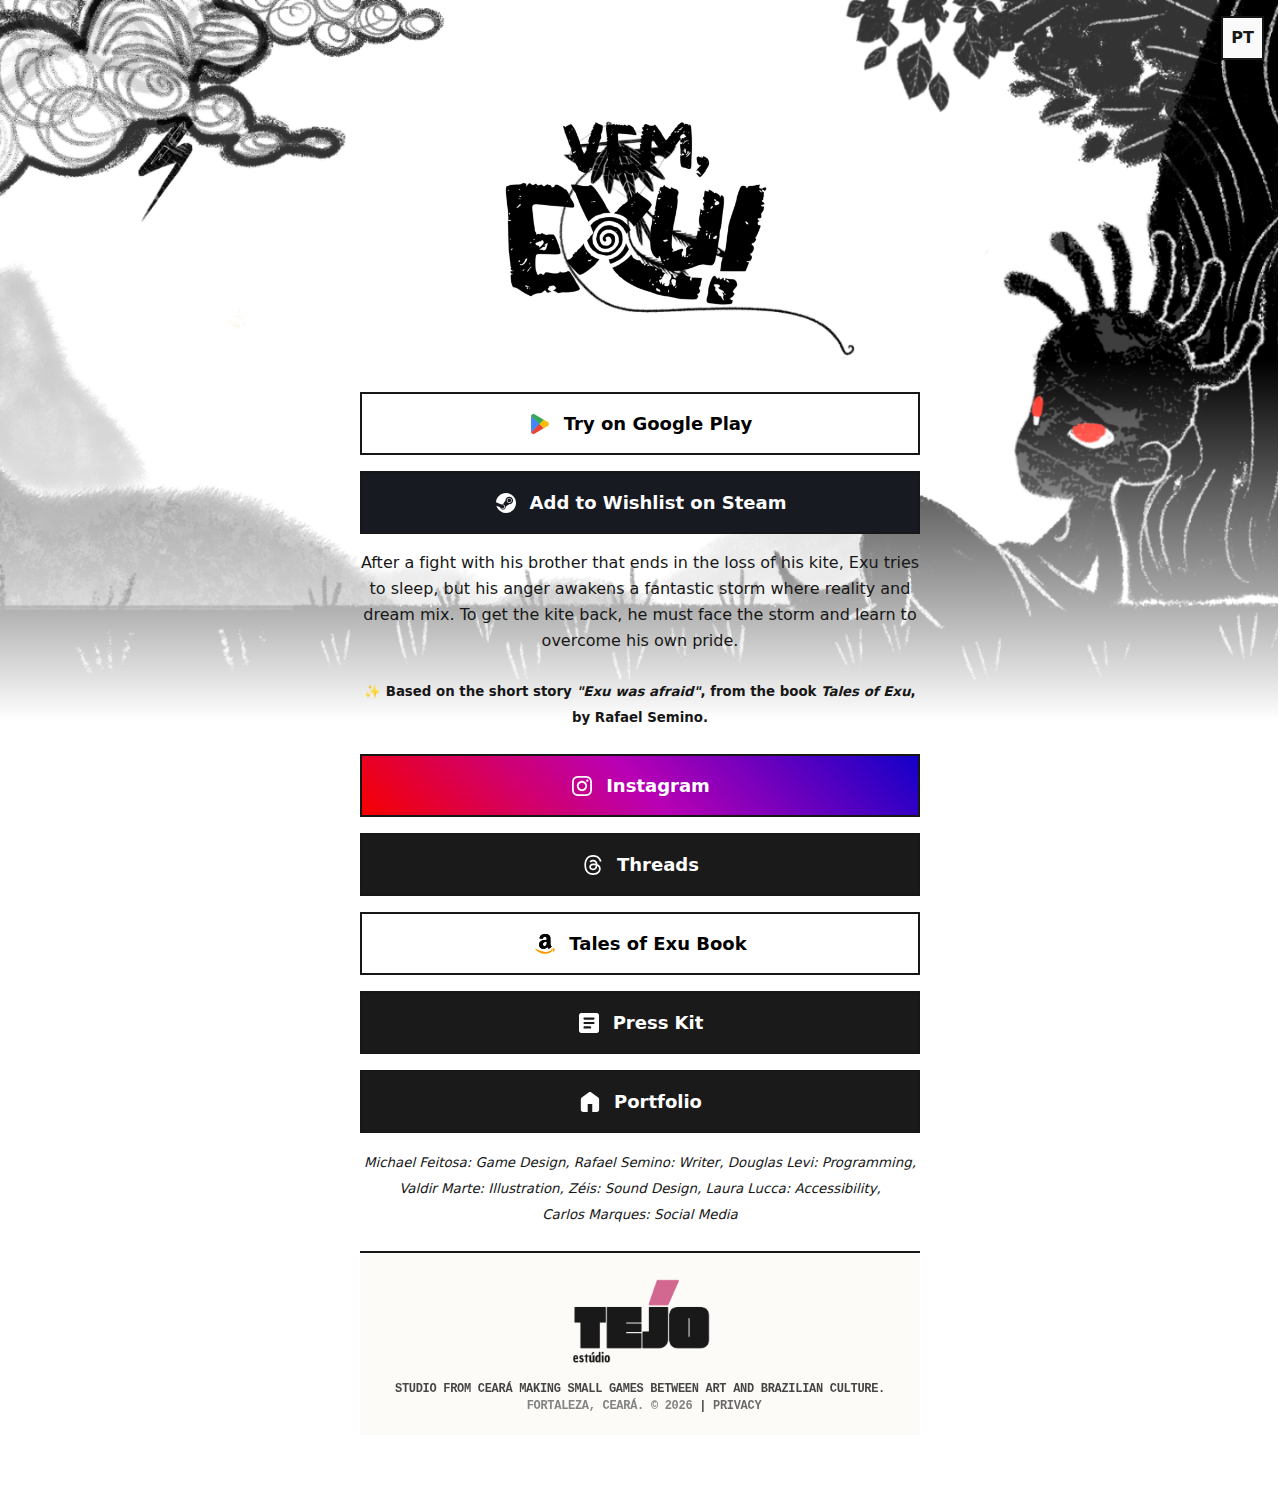
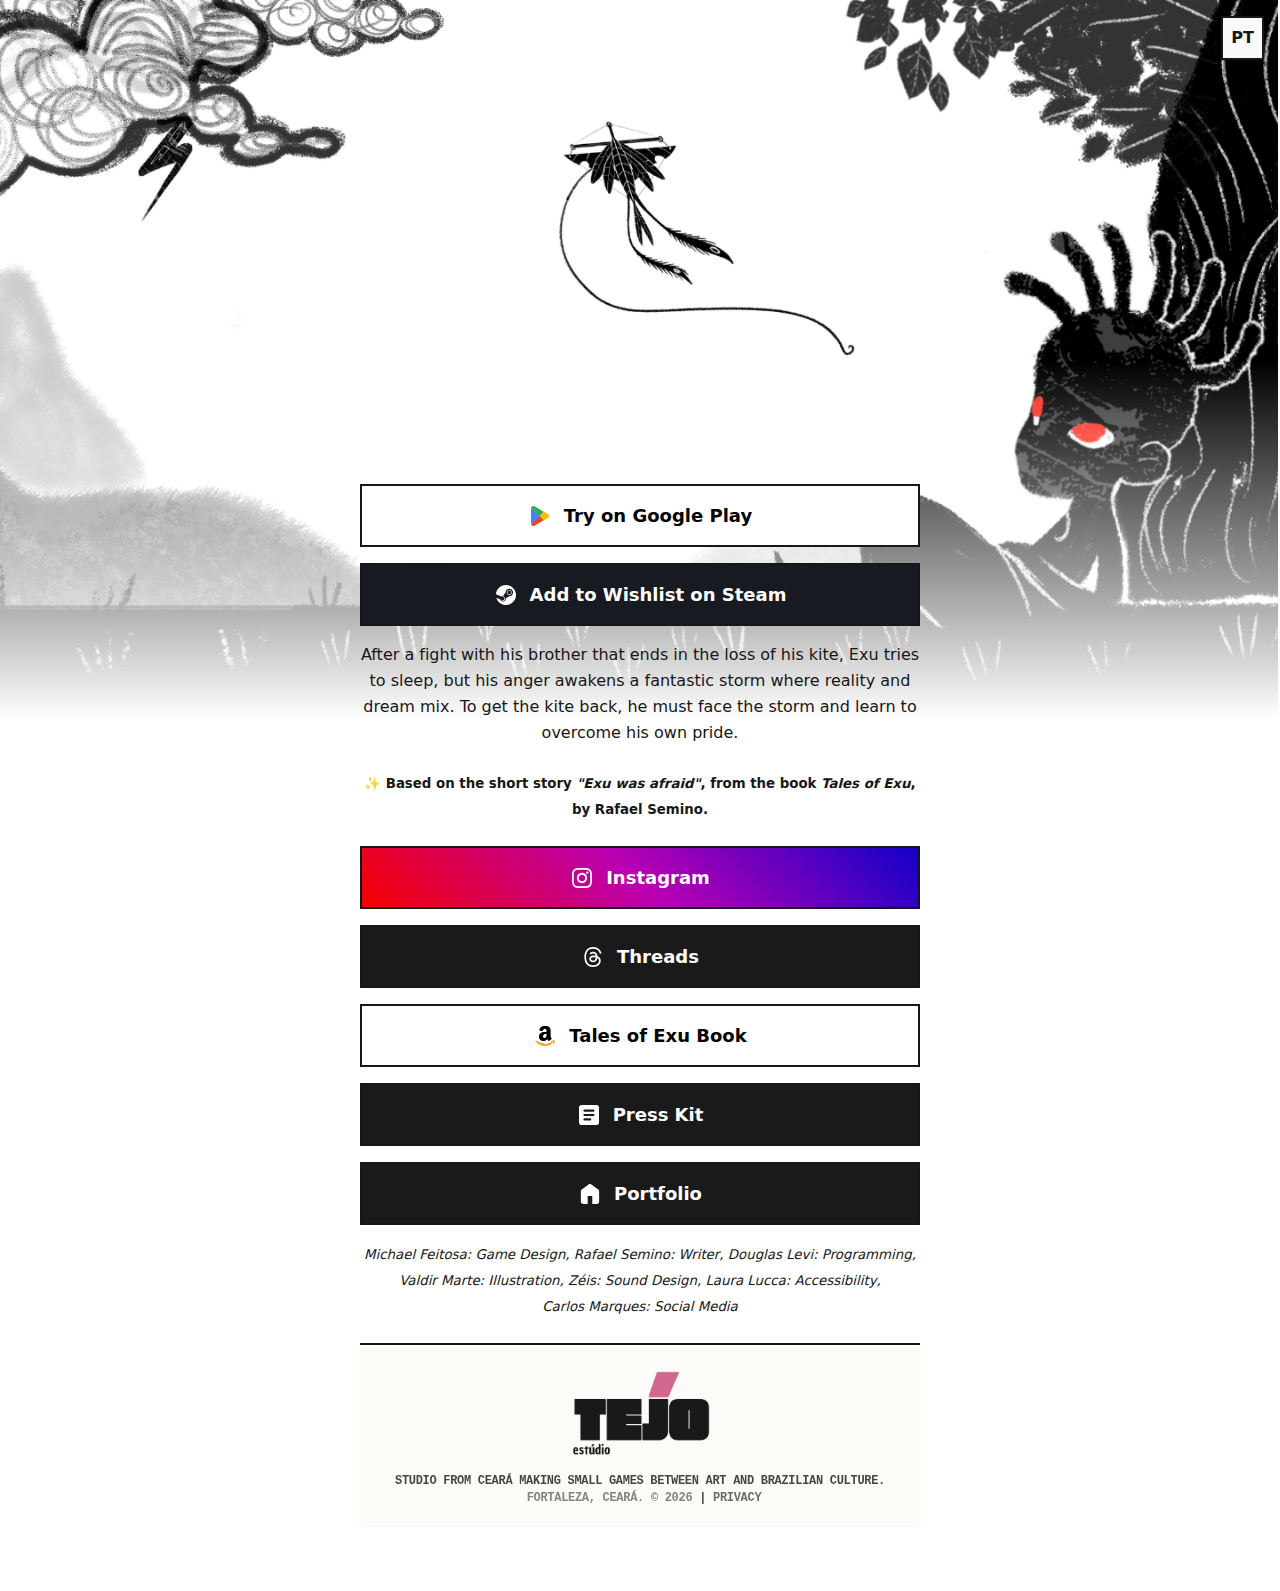
feat: redesign landing page with steam art and clean styles
- Added steam_page_background.png
- Added .tejo-bg-vem-exu to body and corresponding ::before in CSS
- Locked aspect ratio to 16:9 for the art
- Applied mask-image linear-gradient for fade-out to clean white background
- Removed brutalist shadows from elements
- Added 30vw margin-top to position the content safely below the focal area of the background
- Restored original logo file and applied CSS filter for inversion
- Included final screenshot.png for reference

diff --git a/src/static/css/tejo-base.css b/src/static/css/tejo-base.css
@@ -286,6 +286,11 @@ article {
   margin-bottom: 3rem;
 }
 
+/* Background-specific spacing */
+.tejo-bg-vem-exu .tejo-linktree-container {
+  margin-top: 30vw;
+}
+
 /* Linktree Base Container */
 .tejo-linktree-container {
   max-width: 37.5rem;
@@ -326,9 +331,13 @@ article {
   display: block;
 }
 
+.tejo-bg-vem-exu .tejo-avatar {
+  max-width: 15rem; /* Ajustado para compensar a margem e manter proporção visual se necessário, se for essa a percepção do tamanho. Na verdade, vamos ver a diferença que causou o problema */
+}
+
 /* Utilitários - Logos e Ícones */
 .tejo-logo-invertible { 
-  /* Removida inversão automática para manter tom claro fixo */
+  filter: brightness(0) invert(1);
 }
 
 /* Estrutura Base de Formulários */
